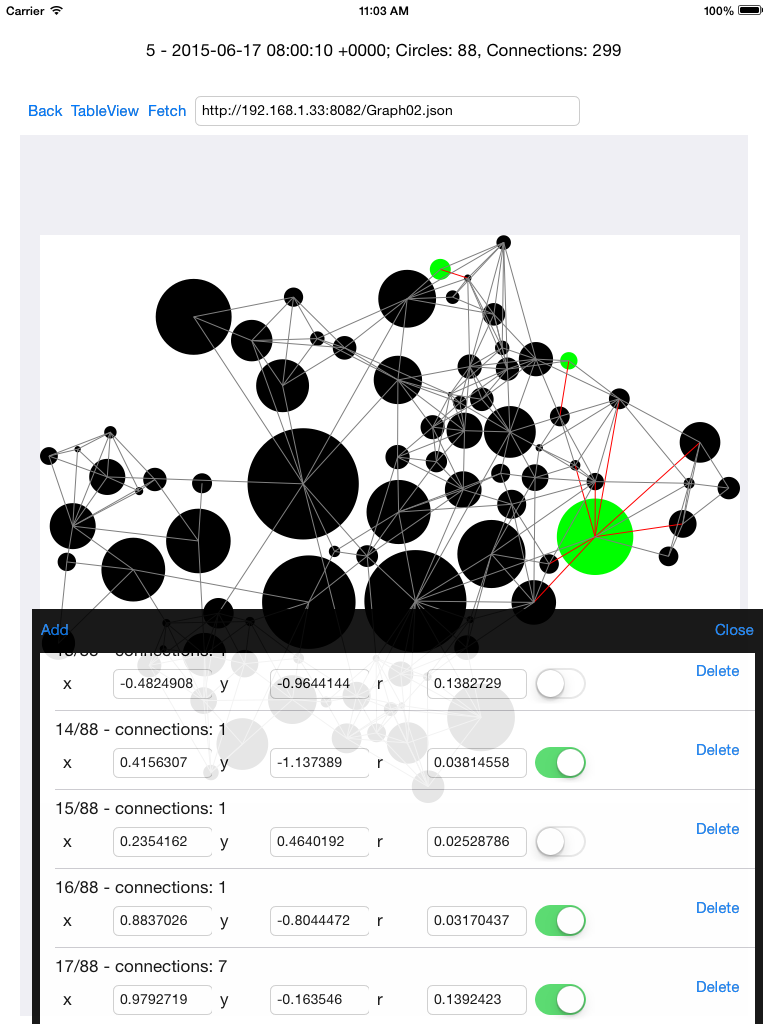
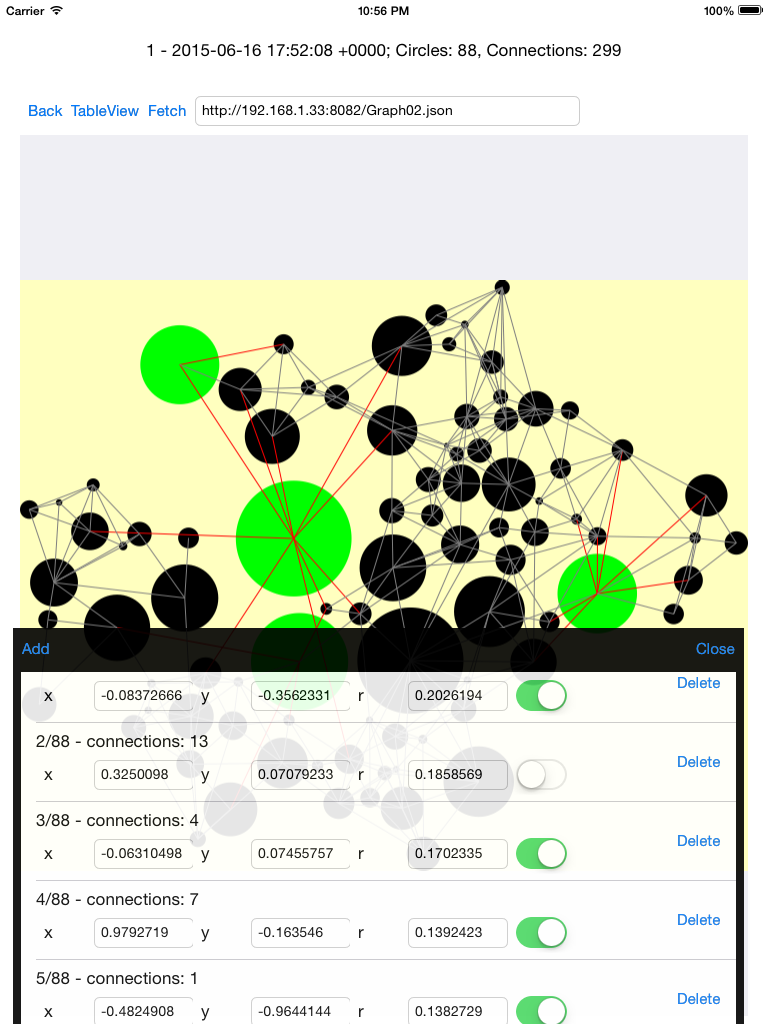
ViewController: geoCircles sorted by radius. README.md screen_shot update

diff --git a/IGGeo/ViewController.m b/IGGeo/ViewController.m
@@ -426,6 +426,9 @@
 
     [fetchRequest setEntity:entity];
     [fetchRequest setPredicate:predicate];
+    NSSortDescriptor *sortDescriptor = [[NSSortDescriptor alloc] initWithKey:@"radius" ascending:NO];
+    [fetchRequest setSortDescriptors:@[sortDescriptor]];
+
     NSError *error = nil;
     NSArray *fetchedObjects = [self.managedObjectContext executeFetchRequest:fetchRequest error:&error];
     if (nil == fetchedObjects){
